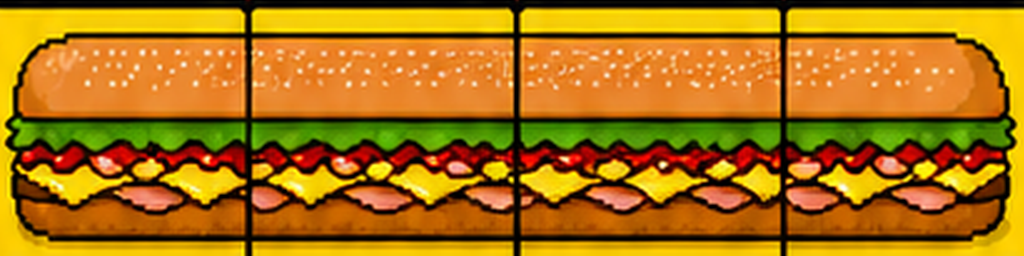
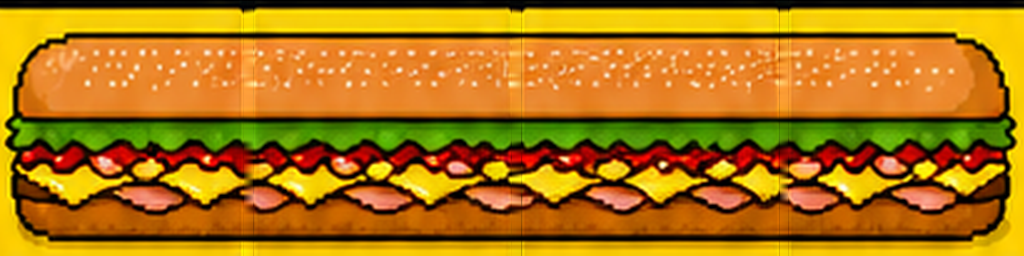
Remove baked grid lines from sub sprite (fix double cell-boundary lines)

Changed region(s): [[0.75, 0.0312, 0.7812, 1.0], [0.5, 0.0312, 0.5312, 1.0], [0.2188, 0.0312, 0.25, 1.0]]

diff --git a/index.html b/index.html
@@ -316,7 +316,7 @@
   };
   const KEYS = ["I", "O", "L", "S", "T", "AV", "TR", "SH"];  // common shuffle bag (BN banana + BB parcel removed for now)
   const SPRITE_SRC = {
-    sub: "assets/sub.png?v=9",
+    sub: "assets/sub.png?v=10",
     ubereats: "assets/ubereats.png?v=12",
     banana: "assets/banana.png?v=9",
     eggs: "assets/eggs.png?v=9",
